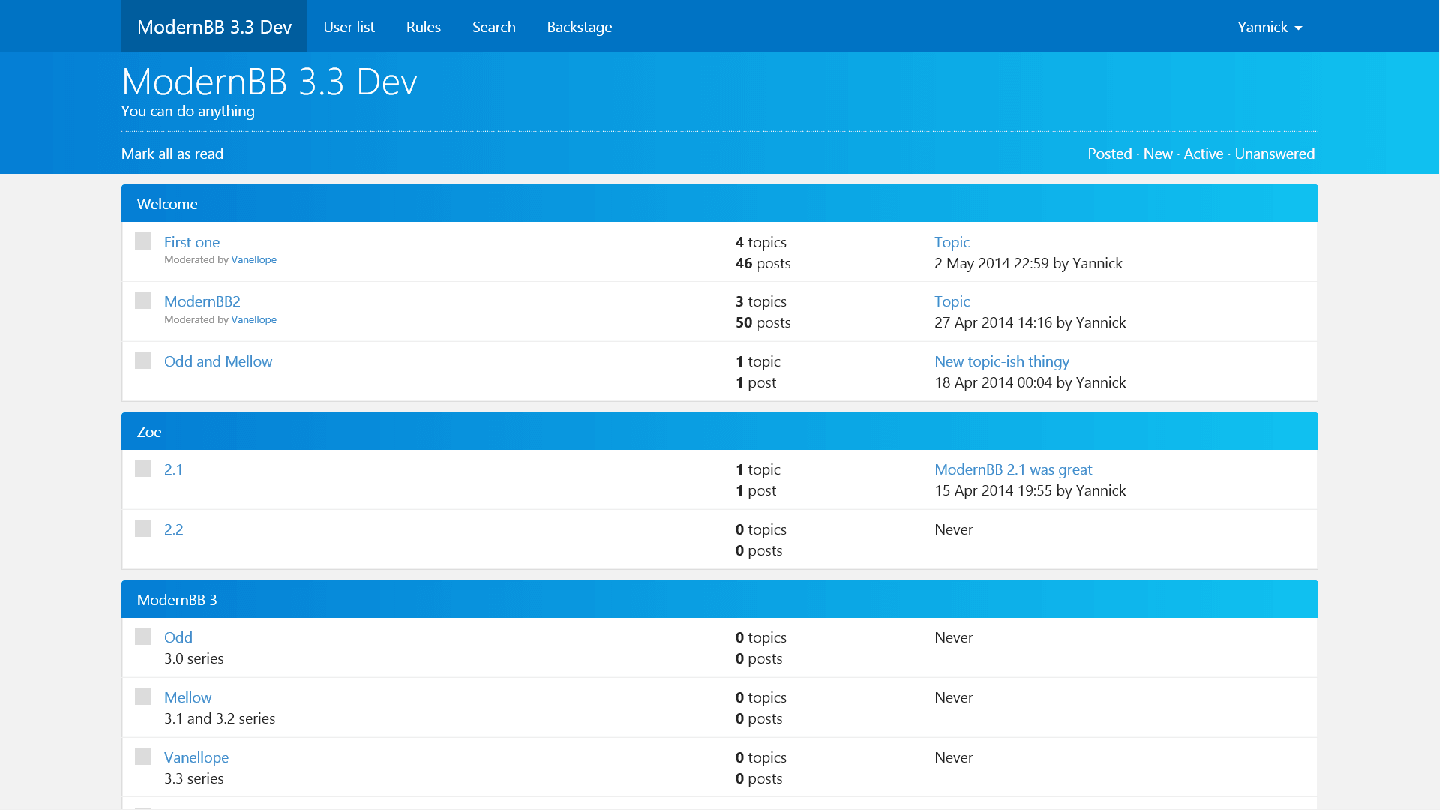
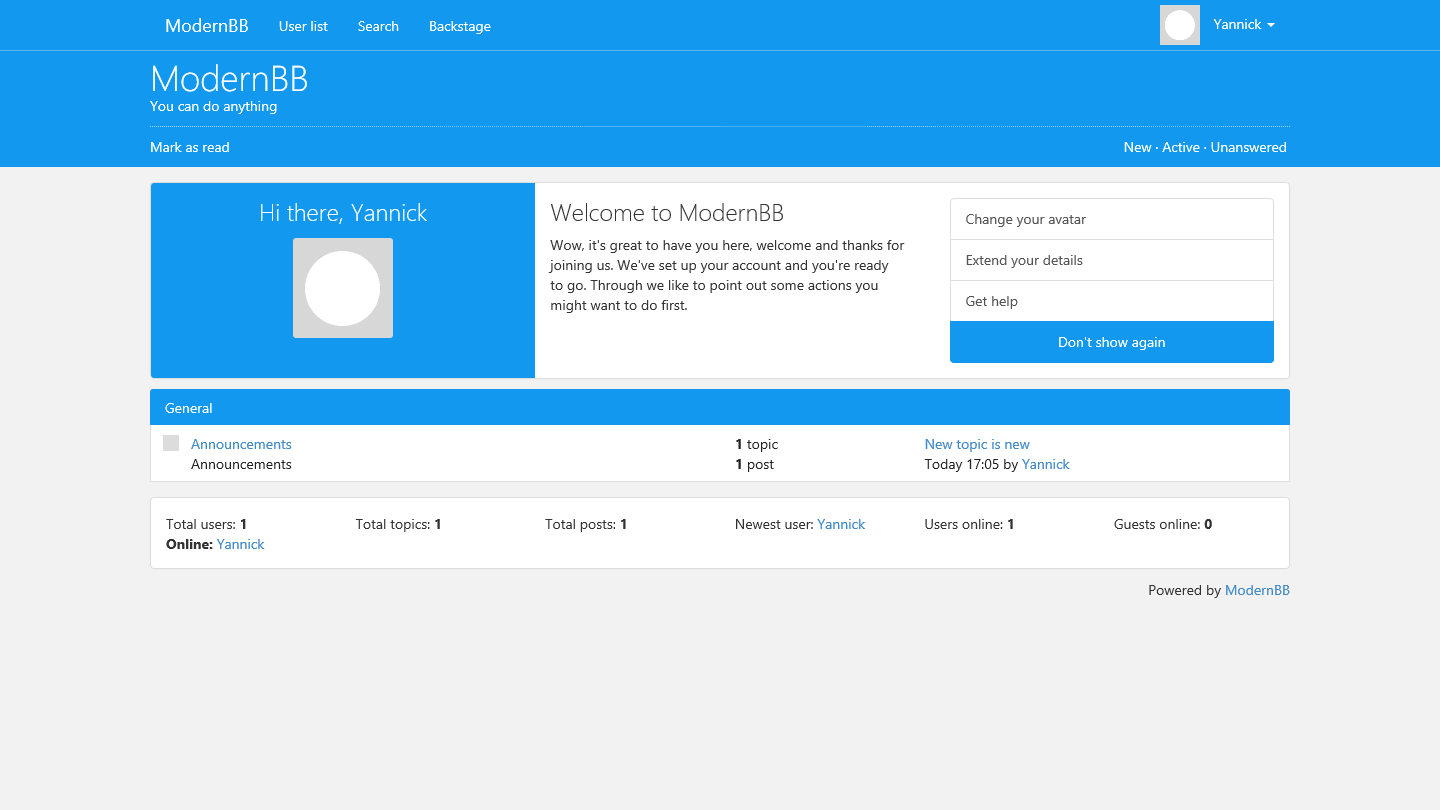
#979 Random 4.0 update

diff --git a/style/Random/style.css b/style/Random/style.css
@@ -71,8 +71,7 @@ h1, h2, h3, h4, h5, h6 {
 
 /* Header */
 #header {
-	background: #057ed4;
-	background: linear-gradient(to right, #057ed4, #10c1f0);
+	background: #1299ef;
 	color: #fff;
 }
 
@@ -95,7 +94,7 @@ h1, h2, h3, h4, h5, h6 {
 	}
 
 	#header .dropdown-menu > li > a:hover, #header .dropdown-menu > li > a:focus {
-		background: #47a9f5;
+		background: #1299ef;
 	}
 
 	.dropdown-menu .divider {
@@ -110,12 +109,6 @@ h1, h2, h3, h4, h5, h6 {
 
 .announcement a {
 	text-decoration: underline;
-}
-
-@media screen and (min-width: 768px) {
-	.navbar-default .navbar-brand, .navbar-default .navbar-brand:hover, .navbar-default .navbar-brand:focus {
-		background: #005d9e;
-	}
 }
 
 .avatar-item .avatar {
@@ -169,8 +162,7 @@ h1, h2, h3, h4, h5, h6 {
 }
 
 .first-run-profile {
-	background-image: url(../../img/core/firstrun.png);
-	background-size: cover;
+	background: #1299ef;
 	border-bottom-left-radius: 3px;
 	border-top-left-radius: 3px;
 	padding-bottom: 16px;
@@ -188,7 +180,6 @@ h1, h2, h3, h4, h5, h6 {
 
 .first-run-avatar img {
 	border-radius: 3px;
-	box-shadow: 0px 0px 13px #808080;
 }
 
 .first-run-list {
@@ -288,8 +279,7 @@ h1, h2, h3, h4, h5, h6 {
 
 .panel-default .panel-heading {
 	border: none;
-	background: #057ed4;
-	background: linear-gradient(to right, #057ed4, #10c1f0);
+	background: #1299ef;
 	color: #fff;
 	height: 37px;
 }
@@ -313,23 +303,13 @@ h1, h2, h3, h4, h5, h6 {
 	margin: 0 auto;
 }
 
-@media(min-width:767px) {
-	ul.nav li.dropdown:hover > ul.dropdown-menu{
-		display: block;
-	}
-}
-
 .navbar {
-	border: none;
-	background: #0073c4;
+	background: #1299ef;
+	border-bottom-color: rgba(255,255,255,.3);
 }
 
-.navbar-default .navbar-nav > li > a:hover, .navbar-default .navbar-nav > li > a:focus, .navbar-default .navbar-nav > .active > a, .navbar-default .navbar-nav > .active > a:hover, .navbar-default .navbar-nav > .active > a:focus {
-	background-color: #0068b0;
-}
-
-.navbar-default .navbar-nav > .open > a, .navbar-default .navbar-nav > .open > a:hover, .navbar-default .navbar-nav > .open > a:focus {
-	background-color: #0068b0;
+.navbar-default .navbar-nav > .open > a, .navbar-default .navbar-nav > .open > a:hover, .navbar-default .navbar-nav > .open > a:focus, .navbar-default .navbar-nav > .active > a, .navbar-default .navbar-nav > .active > a:hover, .navbar-default .navbar-nav > .active > a:focus {
+background-color: transparent;
 	color: #fff;
 }
 
@@ -362,7 +342,7 @@ h1, h2, h3, h4, h5, h6 {
 }
 
 .navbar-default .navbar-toggle .icon-bar {
-	background-color: #0073c4;
+	background-color: #1299ef;
 }
 
 /* Pagination */
@@ -388,8 +368,8 @@ h1, h2, h3, h4, h5, h6 {
 }
 
 a.active.list-group-item, a.active.list-group-item:hover, a.active.list-group-item:focus {
-	background-color: #0891dc;
-	border-color: #0891dc;
+	background-color: #1299ef;
+	border-color: #1299ef;
 }
 
 .profile-h2 {
@@ -537,14 +517,12 @@ a.active.list-group-item, a.active.list-group-item:hover, a.active.list-group-it
 
 .table > thead > tr.active {
 	color: #fff;
-	background: #057ed4;
-	background: linear-gradient(to right, #057ed4, #10c1f0);
+	background: #1299ef;
 }
 
 .category-header, .forum-header {
 	color: #fff;
-	background: #057ed4;
-	background: linear-gradient(to right, #057ed4, #10c1f0);
+	background: #1299ef;
 	padding: 8px 0;
 	border-top-left-radius: 3px;
 	border-top-right-radius: 3px;
@@ -596,12 +574,13 @@ a.active.list-group-item, a.active.list-group-item:hover, a.active.list-group-it
 
 .btn-primary {
 	color: #fff;
-	background-color: #057ed4;
-	border-color: #0071c1;
+	background-color: #1299ef;
+	border-color: #0a82d7;
 }
 
 .btn-primary:hover, .btn-primary:focus, .btn-primary:active, .btn-primary.active, .btn-primary.disabled, .btn-primary[disabled] {
-	background-color: #0071c1;
+	background-color: #0080db;
+	border-color: #0071c1;
 	color: #fff;
 }
 
@@ -945,7 +924,7 @@ textarea {
 
 .profile-card-head {
 	height: 59px;
-	background-color: #057ed4;
+	background-color: #1299ef;
 	color: #fff;
 	border-top-left-radius: 3px;
 	border-top-right-radius: 3px;
@@ -1013,12 +992,11 @@ textarea {
 	left: 4px;
 	margin-top: -2px;
 	border-left-width: 0px;
-	border-right-color: #057ed4;;
+	border-right-color: #1299ef;;
 }
 
 .topic .panel-heading {
-	background: #057ed4;
-	background: linear-gradient(to right, #057ed4, #10c1f0);
+	background: #1299ef;
 }
 
 .post-actions {
@@ -1036,8 +1014,7 @@ textarea {
 	}
 
 	.profile-card-head {
-		background: #057ed4;
-		background: linear-gradient(to right, #057ed4, #10c1f0);
+		background: #1299ef;
 	}
 
 	.topic .panel-heading  {
@@ -1121,8 +1098,7 @@ blockquote footer {
 .form-heading {
 	margin-bottom: 0px;
 	font-weight: 100;
-	background: #057ed4;
-	background: linear-gradient(to right, #057ed4, #10c1f0);
+	background: #1299ef;
 	color: #fff;
 	padding: 20px;
 	border-top-right-radius: 3px;
@@ -1189,7 +1165,6 @@ blockquote footer {
 
 .form-errors {
 	background: #ff6000;
-	background: linear-gradient(to right, #ce4e00, #ff6000);
 }
 
 @media screen and (max-width: 767px) {

diff --git a/style/Random/information.php b/style/Random/information.php
@@ -15,8 +15,8 @@ $xmlstr = <<<XML
 	<id>random</id>
 	<name>Random</name>
 	<developer>Studio 384</developer>
-	<date>23 November 2014</date>
-	<version>3.2.2</version>
+	<date>24 November 2014</date>
+	<version>4.0-dev</version>
 	<description>As fancy as can be, Awesome is a style designed to be great and simple. Make it look blue, my friend!</description>
 	<minversion>3.4.1</minversion>
 	<maxversion>3.5.3</maxversion>
